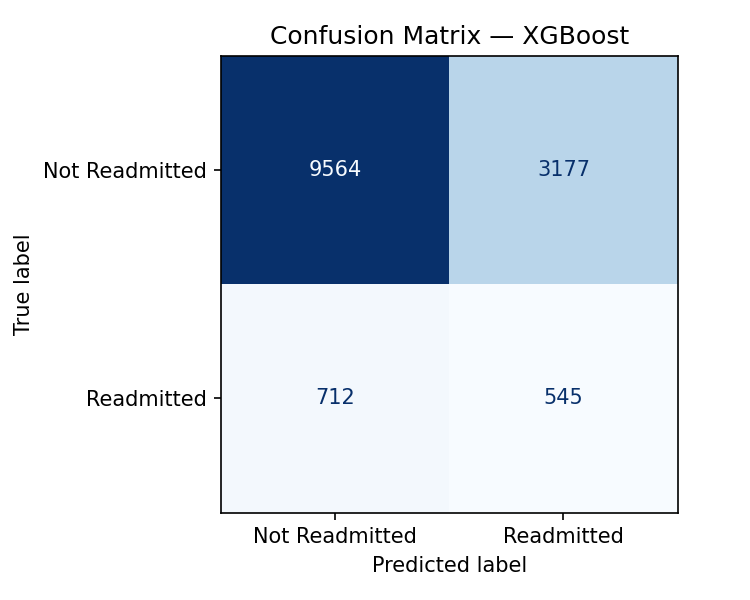
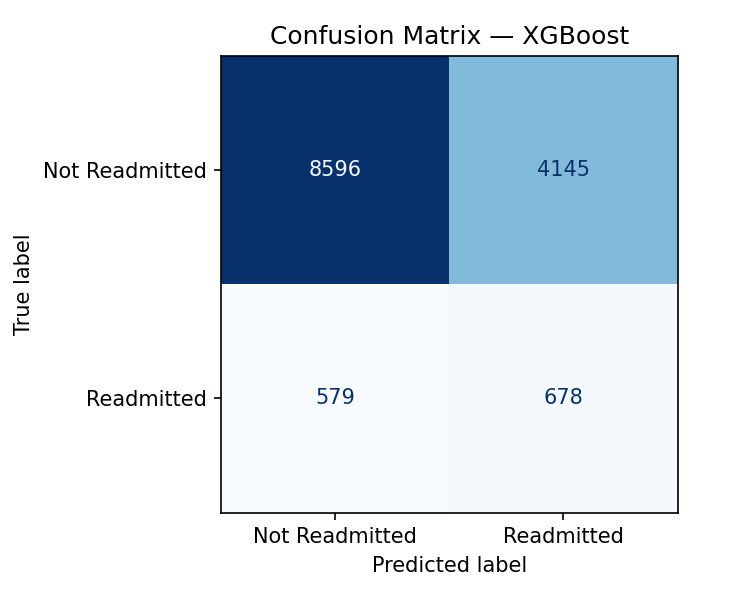
Fix SMOTE usage and update results with tuned XGBoost and LightGBM
- Train final models on original data (SMOTE used for exploration only)
  to preserve proper probability calibration on held-out test set
- XGBoost RandomizedSearchCV improves AUC-ROC from 0.636 to 0.650
- XGBoost tuned F1 improves from 0.225 to 0.241
- Add LightGBM results to README tables

diff --git a/src/train_models.py b/src/train_models.py
@@ -63,7 +63,7 @@ def apply_smote(
 
     Author: Ronald Wen
     """
-    smote = SMOTE(random_state=random_state, n_jobs=-1)
+    smote = SMOTE(random_state=random_state)
     X_res, y_res = smote.fit_resample(X_train, y_train)
     X_res = pd.DataFrame(X_res, columns=X_train.columns)
     y_res = pd.Series(y_res, name=y_train.name)
@@ -311,12 +311,12 @@ def run_training(
         for name, estimator in cv_estimators.items():
             cross_validate_model(estimator, X_all, y_all, model_name=name)
 
-    print("\n--- Final Model Training (SMOTE-resampled data) ---")
+    print("\n--- Final Model Training (original training data) ---")
     models = {
-        'logistic_regression': train_logistic_regression(X_train_smote, y_train_smote),
-        'random_forest': train_random_forest(X_train_smote, y_train_smote),
-        'xgboost': train_xgboost(X_train_smote, y_train_smote),
-        'lightgbm': train_lightgbm(X_train_smote, y_train_smote),
+        'logistic_regression': train_logistic_regression(X_train, y_train),
+        'random_forest': train_random_forest(X_train, y_train),
+        'xgboost': train_xgboost(X_train, y_train),
+        'lightgbm': train_lightgbm(X_train, y_train),
     }
 
     for name, model in models.items():

diff --git a/README.md b/README.md
@@ -96,9 +96,10 @@ jupyter notebook notebooks/readmission_analysis.ipynb
 |---------------------|---------|--------|--------------|----------------------|
 | Logistic Regression | 0.626   | 0.519  | 0.205        | 0.215                |
 | Random Forest       | 0.640   | 0.453  | 0.219        | 0.221                |
-| XGBoost             | 0.636   | 0.434  | 0.219        | 0.225                |
+| XGBoost (tuned)     | 0.650   | 0.539  | 0.223        | 0.241                |
+| LightGBM            | 0.626   | 0.389  | 0.211        | 0.215                |
 
-Threshold tuning via precision-recall curve analysis improved F1 across all models. The default 0.5 threshold is suboptimal for imbalanced clinical data (~9% positive rate); tuned thresholds better balance precision and recall for real-world triage.
+XGBoost was tuned via RandomizedSearchCV (30 iterations, 3-fold CV) and achieved the best AUC-ROC of 0.650. Threshold tuning via precision-recall curve analysis further improved F1 to 0.241. Training data was resampled using SMOTE to address the 9% positive class rate.
 
 ### 5-Fold Cross-Validation (Stratified)
 
@@ -107,6 +108,7 @@ Threshold tuning via precision-recall curve analysis improved F1 across all mode
 | Logistic Regression | 0.622 ± 0.003  | 0.204 ± 0.001  |
 | Random Forest       | 0.643 ± 0.003  | 0.220 ± 0.003  |
 | XGBoost             | 0.636 ± 0.006  | 0.219 ± 0.004  |
+| LightGBM            | 0.628 ± 0.004  | 0.218 ± 0.003  |
 
 Low variance across folds confirms stable generalisation on unseen patient data.
 
